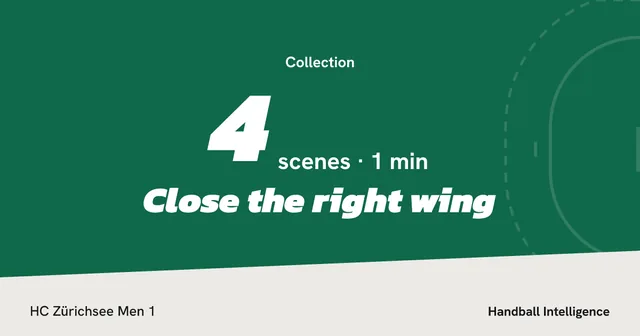
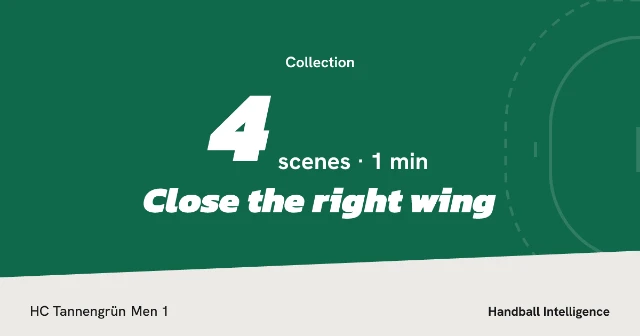
Site: team chat link preview re-rendered from the app's renderer as HC Tannengrün (U13)
The chat preview on the start page still said HC Zürichsee. share-preview.mjs
renders public/media/teilen-vorschau-{de,fr,en}.webp with the app's own share
picture renderer (apps/web lib/share/og-image.tsx) for the demo collection of
HC Tannengrün Herren 1, in all three languages; the README says how. A new
site test fails when a name of the earlier demo shows up in public/ (text or
file names), the messages or the content.

Claude-Session: https://claude.ai/code/session_01H3gogAPSyQiYdtAJAURpx7

diff --git a/apps/site/src/lib/names.test.ts b/apps/site/src/lib/names.test.ts
@@ -1,0 +1,48 @@
+import { readdirSync, readFileSync, statSync } from "node:fs";
+import { join, relative } from "node:path";
+import { describe, expect, it } from "vitest";
+
+/**
+ * The demo club and everything around it is invented (HC Tannengrün, TSV Nachtwind …). The
+ * names of the earlier demo (real places on Lake Zurich) must not come back: not in the files the
+ * website serves (public/, text and file names), not in its texts (src/messages, content). A
+ * picture cannot be read here, so pictures with words in them are made by scripts
+ * (scripts/product-shots, e.g. share-preview.mjs for the chat preview) and made again on a change.
+ */
+const OLD = ["Zürichsee", "Zurichsee", "Seewald", "Moosbach", "Bergtal", "Rebhalden", "Lindmatt", "Uferweg", "Seeblick", "Thalwil", "Horgen"];
+const PATTERN = new RegExp(OLD.join("|"), "i");
+/** files whose bytes are not text (their names are still checked) */
+const BINARY = /\.(webp|png|jpe?g|gif|avif|ico|woff2?|ttf|otf|mp4|webm|m4s|pdf)$/i;
+
+const site = join(__dirname, "..", "..");
+
+function files(dir: string): string[] {
+  return readdirSync(dir).flatMap((name) => {
+    const path = join(dir, name);
+    return statSync(path).isDirectory() ? files(path) : [path];
+  });
+}
+
+describe("no names of the earlier demo", () => {
+  it("in the names of the files in public/", () => {
+    const hits = files(join(site, "public"))
+      .map((f) => relative(site, f))
+      .filter((f) => PATTERN.test(f));
+    expect(hits).toEqual([]);
+  });
+
+  it("in the text files in public/, the messages and the content", () => {
+    const hits = ["public", "src/messages", "content"]
+      .flatMap((d) => files(join(site, d)))
+      .filter((f) => !BINARY.test(f))
+      .filter((f) => PATTERN.test(readFileSync(f, "utf8")))
+      .map((f) => `${relative(site, f)}: ${readFileSync(f, "utf8").match(PATTERN)?.[0]}`);
+    expect(hits).toEqual([]);
+  });
+
+  it("finds an old name where there is one", () => {
+    expect(PATTERN.test("HC Zürichsee Herren 1")).toBe(true);
+    expect(PATTERN.test("teilen-vorschau-thalwil.webp")).toBe(true);
+    expect(PATTERN.test("HC Tannengrün Herren 1")).toBe(false);
+  });
+});

diff --git a/apps/site/scripts/product-shots/README.md b/apps/site/scripts/product-shots/README.md
@@ -90,6 +90,27 @@ warns. After either step, look at the pictures on the site at 390 and 1280 px.
 | `get-season` | browser, «Saison», cut below the title: what repeats, one bar per match, the shots on the court | «So sieht es aus» |
 | `share` | phone, a collection: «So kommt es im Chat an» and «Link teilen» | «So sieht es aus», «Über uns», «Daten» |
 
+## The link preview in the team chat
+
+Tuesday's chat on the start page (`src/components/phone-chat.tsx`) shows the preview a shared
+collection gets in WhatsApp and co.: `public/media/teilen-vorschau-{de,fr,en}.webp`. It is not
+drawn by hand: the app's own share picture renderer (`apps/web/src/lib/share/og-image.tsx`, the
+same code that answers `/s/<token>/og`) renders it for the demo collection «Aussen rechts
+zumachen» of HC Tannengrün Herren 1 (4 scenes, 1 minute), with the app's translations and the
+title and team in each language («Fermer l'aile droite», «Hommes 1»; «Close the right wing», «Men
+1»):
+
+```bash
+node apps/site/scripts/product-shots/share-preview.mjs
+```
+
+No app, database or network: the script loads the renderer with vite (from the app's vitest) and
+writes the three WebP files at 640 px. Make them again whenever the renderer's design, the demo
+club or the collection changes, and keep `home.chat.previewTitle` and `previewText` in
+`src/messages` saying the same. `src/lib/names.test.ts` fails when a name of the earlier demo
+(Zürichsee, Thalwil …) shows up in `public/` (text or file name), the messages or the content; it
+cannot read pictures, which is why every picture with words is made by a script.
+
 ## A new picture
 
 Add `templates/<name>.html` (copy one that is close), a screen to `SHOTS` in `capture.mjs` if it
